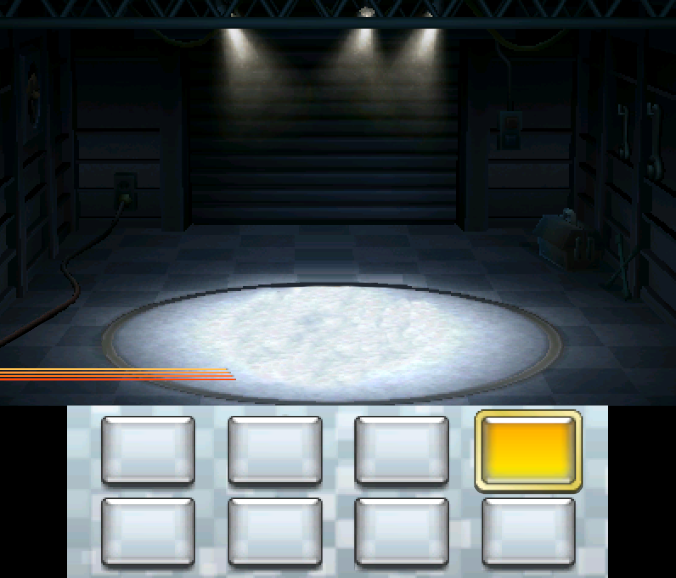
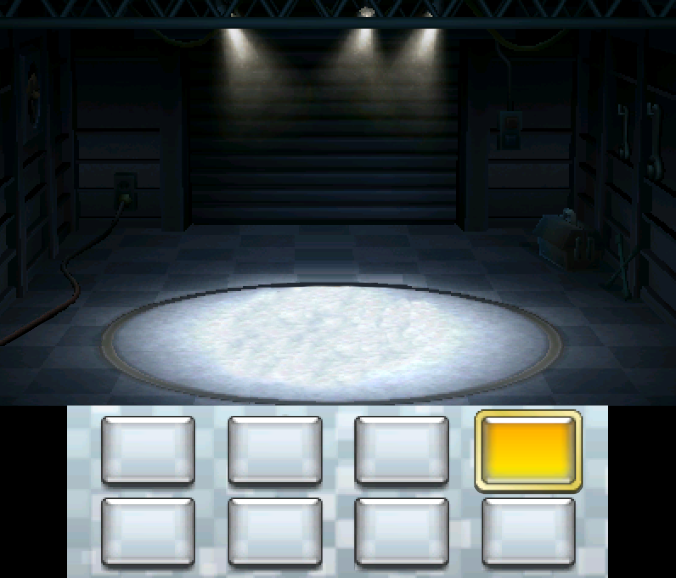
Removable lines support

Changed region(s): [[0.0, 0.6228, 0.3417, 0.6851]]

diff --git a/ui/characters/index.html b/ui/characters/index.html
@@ -18,8 +18,8 @@
     <center>
     <h1>To test the UI of the character selection screen</h1>
     <br>
-    <div class="battle_content">
-        <div class="battle_things">
+    <div class="ui_content">
+        <div class="ui_things">
             <input type="text" name="slot1" id="slot1" class="i1" placeholder="First character slot"></input>
             <span class="select"><input type="checkbox" id="select1" name="select1" onclick="select1()"></input> Character selected?</span>
             <br><br>
@@ -42,9 +42,10 @@
             <span class="select"><input type="checkbox" id="select7" name="select7" onclick="select7()"></input> Character selected?</span>
             <br><br>
             <input type="text" name="slot8" id="slot8" class="i1" placeholder="Eighth character slot"></input>
-            <span class="select"><input type="checkbox" id="select8" name="select8" onclick="select8()"></input> Character selected?</span>
+            <span class="select"><input type="checkbox" id="select8" name="select8" onclick="select8()"></input> Character selected?</span><br>
+            <span class="select"><input type="checkbox" id="select_lines" name="select_lines" onclick="select_lines()"></input> Hide orange lines?</span>
         </div>
-        <div class="battle_things">
+        <div class="ui_things">
         <p>(Click on the middle of the garage or the slots to change their preview)</p>
             <div class="image-container">
                 <input type="file" accept="image/png, image/jpeg" id="slot_select1" class="preview_select_slots" onchange="char_slot1(this);" title="Click to select a preview image">
@@ -64,6 +65,7 @@
                 <input type="file" accept="image/png, image/jpeg" id="slot_select8" class="preview_select_slots" onchange="char_slot8(this);" title="Click to select a preview image">
                 <img alt="Slot" id="slot_image8" name="slot_image8" class="preview_slots"/>
                 <img src="../../assets/img/characters/background.png" alt="Background" id="background" class="background"/>
+                <img src="../../assets/img/characters/lines.png" alt="Lines" id="lines" class="lines"/>
                 <input type="file" accept="image/png, image/jpeg" id="select" class="preview_select_characters" onchange="previewImage(this);" title="You haven't selected any character yet" style="cursor: not-allowed;" disabled>
                 <img name="preview" id="preview" class="preview_characters"/>
                 <p id="name" name="name" class="name"></p>

diff --git a/ui/battles/index.html b/ui/battles/index.html
@@ -18,8 +18,8 @@
     <center>
     <h1>To test the UI of the battles</h1>
     <br>
-    <div class="battle_content">
-        <div class="battle_things">
+    <div class="ui_content">
+        <div class="ui_things">
             <select name="console1" id="console1" onchange="change_console1(this);" style="margin-right: 24px;">
                 <optgroup label="Other">
                     <option value="">None</option>
@@ -164,7 +164,7 @@
             <input type="text" name="slot6" id="slot6" class="i1" placeholder="Sixth battle slot"></input>
             <span class="select"><input type="checkbox" id="select6" name="select6" onclick="select6()"></input> Battle selected?</span>
         </div>
-        <div class="battle_things">
+        <div class="ui_things">
             <p>(Click on the side banner to change the preview)</p>
             <div class="image-container">
                 <img src="../../assets/img/battles/background.png" alt="Background" id="background" class="background"/>

diff --git a/assets/js/ui_characters.js b/assets/js/ui_characters.js
@@ -53,6 +53,8 @@ let result8;
 var background = document.getElementById("background");
 var preview = document.getElementById('preview');
 var select = document.getElementById("select");
+var lines = document.getElementById("select_lines");
+var lines_img = document.getElementById("lines");
 
 preview.style.opacity = "0";
 
@@ -668,5 +670,14 @@ function char_slot8(input) {
             img8.src = e.target.result;
         };
         reader.readAsDataURL(input.files[0]);
+    }
+}
+
+function select_lines() {
+    if(lines.checked === true) {
+        lines_img.style.display = "none";
+    }
+    else {
+        lines_img.style.display = "block";
     }
 }

diff --git a/assets/css/style.css b/assets/css/style.css
@@ -427,14 +427,14 @@ table th {
   left: 1%;
 }
 
-.battle_content {
+.ui_content {
   margin-top: 48px;
   display: flex;
   align-items: center;
   justify-content: center;
 }
 
-.battle_things {
+.ui_things {
   margin-left: 24px;
   margin-right: 24px;
 }
@@ -505,4 +505,18 @@ table th {
   padding: 15px;
   margin: 10px;
   float: right;
+}
+
+#select_lines {
+  margin-top: 36px;
+}
+
+#slot1 {
+  margin-top: 48px;
+}
+
+.lines {
+  position: absolute;
+  top: 0%;
+  left: 0%;
 }
